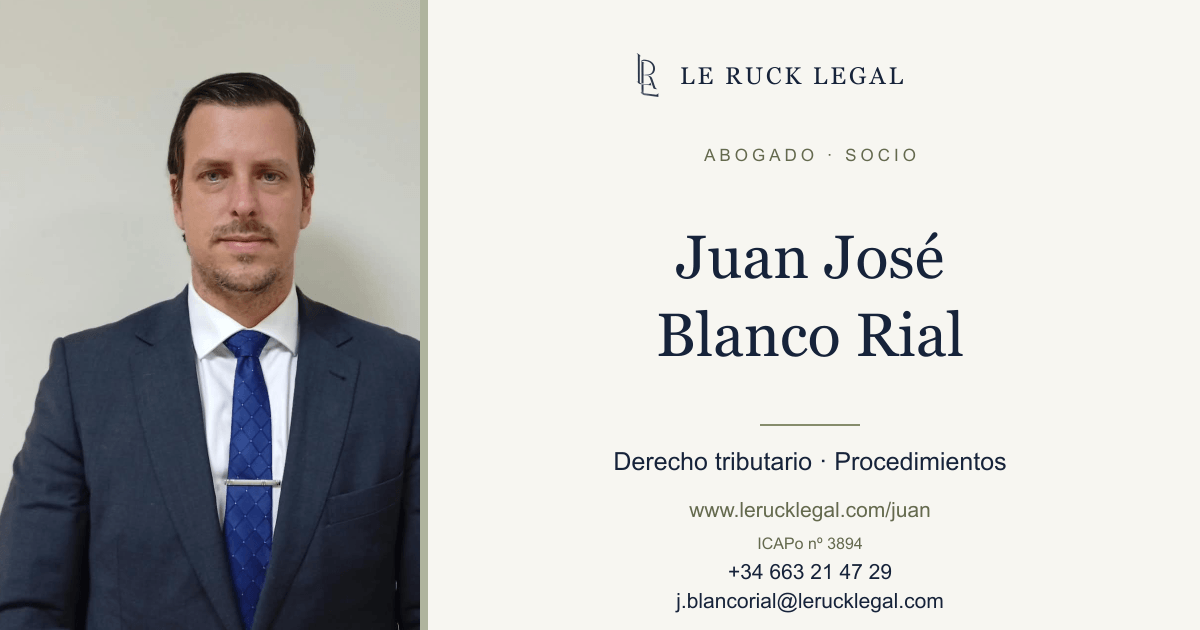
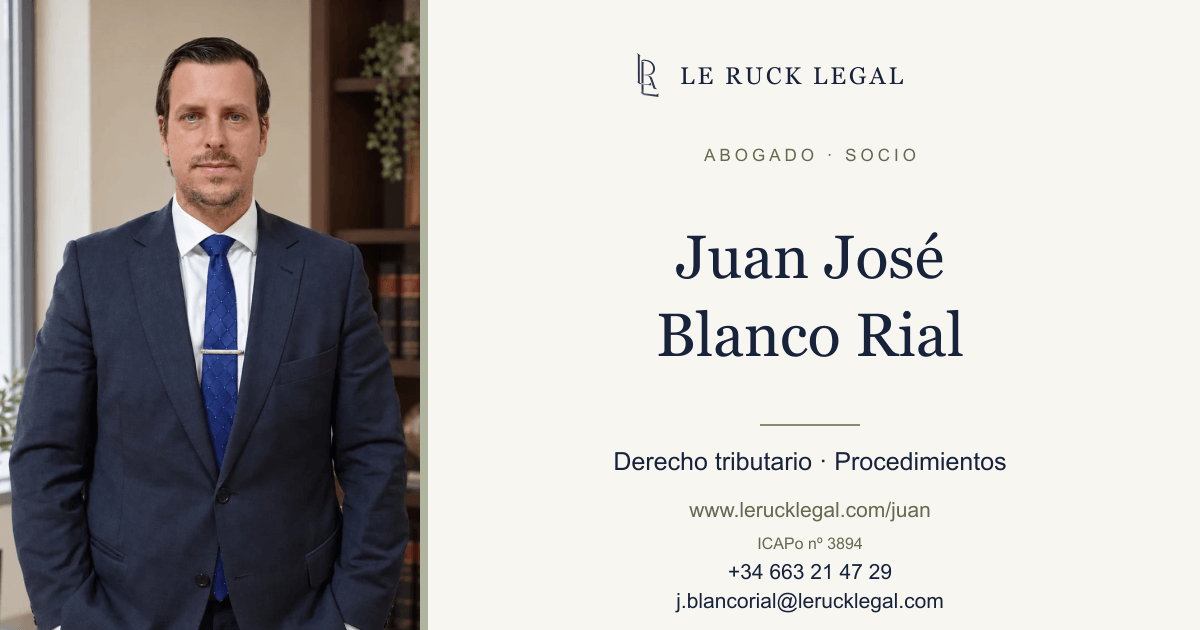
feat: publish Juan portrait and partners homepage photo

Changed region(s): [[0.0, 0.0, 0.37, 1.0]]

diff --git a/src/styles/global.css b/src/styles/global.css
@@ -62,13 +62,13 @@ h1, h2, h3, h4, .font-serif {
 .brand-lockup { display: flex; align-items: center; gap: .85rem; flex-shrink: 0; }
 .brand-lockup img { width: 30px; height: 55px; object-fit: cover; }
 .brand-lockup span { font-family: Georgia, serif; font-size: 1.15rem; letter-spacing: .04em; }
-.home-hero { display: grid; grid-template-columns: 1.2fr 1fr; gap: 8px; }
-.hero-message { min-height: 510px; display: flex; align-items: center; background: var(--color-sage-400); }
+.home-hero { display: grid; grid-template-columns: 1fr 1.35fr; gap: 8px; background: var(--color-sage-400); }
+.hero-message { display: flex; align-items: center; background: var(--color-sage-400); }
 .hero-copy { padding: clamp(2rem, 4vw, 4rem); color: var(--color-navy-900); }
 .hero-location { font-size: .8rem; letter-spacing: .06em; margin-bottom: 1.1rem; }
 .hero-copy h1 { font-size: clamp(2.3rem, 3.7vw, 3.65rem); font-weight: 400; line-height: 1.13; letter-spacing: -.025em; }
 .hero-copy > p:not(.hero-location) { max-width: 40ch; margin-block: 1.4rem; font-size: 1rem; }
-.hero-portrait { position: relative; background: var(--color-sage-400); min-width: 0; }
+.hero-portrait { position: relative; background: var(--color-sage-400); min-width: 0; aspect-ratio: 3 / 2; align-self: center; }
 .hero-portrait img { position: absolute; inset: 0; width: 100%; height: 100%; object-fit: cover; object-position: center 35%; filter: grayscale(1) contrast(.96); }
 .site-button { display: inline-flex; align-items: center; justify-content: center; gap: 2.5rem; padding: .8rem 1.5rem; min-height: 48px; background: var(--color-sage-400); color: var(--color-navy-900); font-size: .85rem; font-weight: 600; white-space: nowrap; transition: background-color .2s ease; }
 .site-button:hover { background: var(--color-sage-200); }
@@ -148,7 +148,6 @@ h1, h2, h3, h4, .font-serif {
 @media (max-width: 767px) {
   .home-hero { grid-template-columns: 1fr; gap: 4px; }
   .hero-message { min-height: 320px; }
-  .hero-portrait { height: 300px; }
   .hero-copy { padding: 2rem 1.25rem; }
   .hero-copy h1 { font-size: clamp(2rem, 7.5vw, 3rem); }
   .hero-location { margin-bottom: .8rem; }

diff --git a/src/data/site.ts b/src/data/site.ts
@@ -249,13 +249,11 @@ export const team: Lawyer[] = [
     "specialty": "Derecho tributario y procedimientos tributarios",
     "colegio": "Ilustre Colegio de Abogados de Pontevedra",
     "colegiado": "ICAPo nº 3894",
-    "photo": "/equipo/juan-retrato.jpeg",
-    "photoScale": 1.3,
-    "photoPosition": "center 80%",
+    "photo": "/equipo/juan-retrato.webp",
     "card": {
       "slug": "juan",
-      "portraitScale": 2.4,
-      "portraitPosition": "center 36%",
+      "portraitScale": 1.6,
+      "portraitPosition": "center top",
       "artworkNameLines": [
         "Juan José",
         "Blanco Rial"
